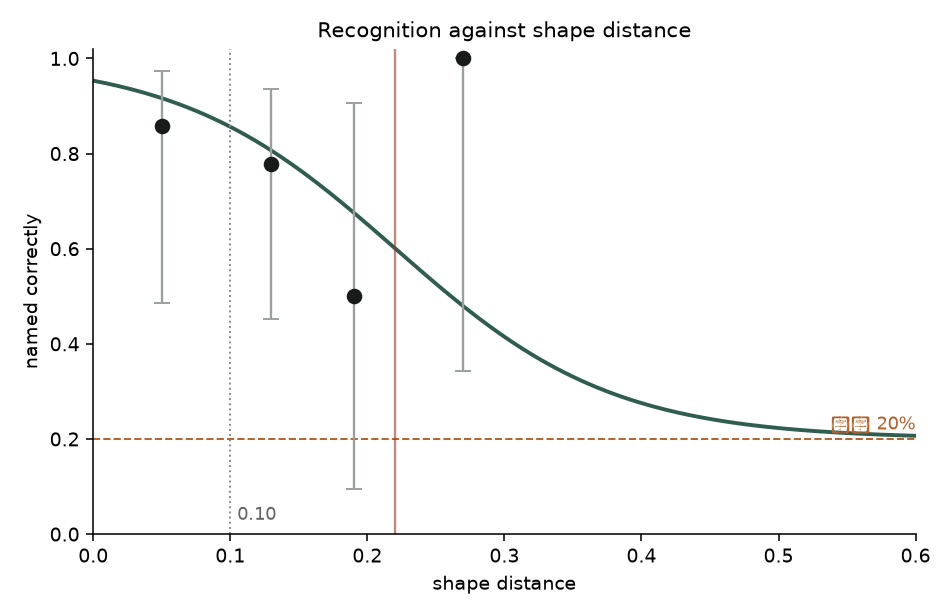
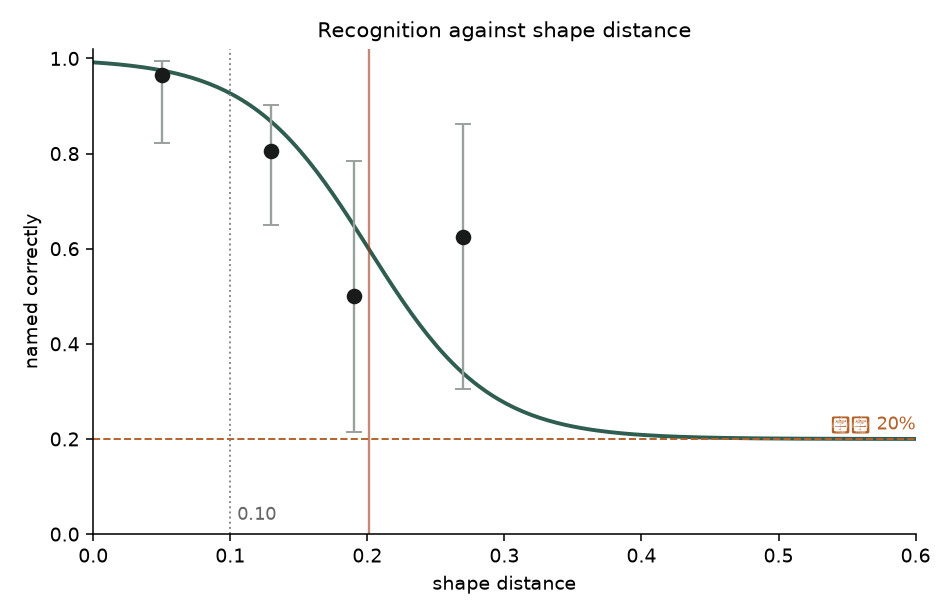
Measure recognition per shape, and withdraw the warning it invalidates
Four raters, 120 judgements, the same 30 routes. The threshold interval
tightens from [0.130, 0.314] on one rater to [0.161, 0.237], and the
pooled halfway point is 0.201. The instrument is stable: all four scored
57-60%, all four gave the same answer on 22 of 30 items, at least three
agreed on 28 of 30.

The threshold is per shape, and that is now settled rather than
suggestive:

    triangle 0.120  crescent 0.166  trex 0.169  heart 0.286  star5 0.321

One threshold for all five fits at log-likelihood -48.1, one per shape at
-33.7: chi2(4) = 28.7, p = 9.1e-06. A factor of 2.7 between the ends. It
is the shape this project keeps finding - a constant applied where the
quantity varies, after detour by size and street scale by city.

Nothing predicts it from geometry, so a new shape has to be measured.
Both candidates failed: distance to the nearest other shape in the
library (r = -0.20, Spearman p = 0.75), refuted outright by the crescent,
which is the most distinctive shape at 0.513 from its nearest neighbour
and has nearly the lowest threshold; and n_min (r = -0.05). Unmeasured
shapes get the pooled figure and the response says which they got.

The service now reports a measured recognition rate instead of a band cut
on raw distance, so the same words mean the same thing for a star and a
triangle. 48 of the 50 errors were "cannot tell" and only two named a
different shape, so the bottom band says the shape is gone rather than
that it is a poor likeness.
[…]

diff --git a/heart_route_poc/server/index.html b/heart_route_poc/server/index.html
@@ -437,35 +437,16 @@
     $("svg").innerHTML = svg;
   }
 
-  function go(force) {
+  function go() {
     $("go").disabled = true;
     $("status").textContent = "計算中…（第一次會等路網載入，之後只要幾秒）";
     $("status").className = "status";
     var body = { target_km: state.km, mode: state.mode,
                  lat: state.place.lat, lon: state.place.lon };
-    if (force) body.force = true;
     if (state.text) body.text = state.text; else body.shape = state.shape;
     api("/api/route", body)
       .then(function (r) {
         $("go").disabled = false;
-        if (r.status === "unlikely") {
-          // Stopped early on purpose, at about half the wait. It is a
-          // prediction, so it offers to be overruled rather than refusing.
-          $("status").innerHTML = "";
-          var msg = document.createElement("span");
-          msg.textContent = r.quality_message;
-          var anyway = document.createElement("button");
-          anyway.type = "button";
-          anyway.className = "ghost";
-          anyway.style.marginLeft = "10px";
-          anyway.textContent = "還是畫畫看";
-          anyway.onclick = function () { go(true); };
-          $("status").appendChild(msg);
-          $("status").appendChild(anyway);
-          $("status").className = "status bad";
-          $("result-card").hidden = true;
-          return;
-        }
         if (r.status !== "ok") {
           $("status").textContent = r.message || ("失敗：" + (r.status || r.error));
           $("status").className = "status bad";
@@ -549,7 +530,7 @@
     renderShapes();
     if (state.text || $("text").value.trim()) checkText();
   });
-  $("go").addEventListener("click", function () { go(false); });
+  $("go").addEventListener("click", go);
   renderPresets();
   loadPlaces();
   loadShapes();

diff --git a/heart_route_poc/server/app.py b/heart_route_poc/server/app.py
@@ -53,6 +53,7 @@ from region_graph import (MIN_COVERAGE, box_around, coverage,        # noqa: E40
                           regions_overlapping, tiles_for)
 from region_download import region_for                            # noqa: E402
 import street_scale as ss                                        # noqa: E402
+import recognition as rc                                         # noqa: E402
 from poc15_wiggle import wander                                  # noqa: E402
 from shape_library import resample_by_arclength                  # noqa: E402
 from shape_metrics import alignment_angle                        # noqa: E402
@@ -241,41 +242,15 @@ def places() -> list[dict]:
     return out
 
 
-# How close the route came to the shape asked for. The first two boundaries are
-# the POC 13/14 discrimination thresholds - where a difference is seen. The
-# third is now measured rather than inherited: POC 29 showed routes alone, with
-# no reference, to be named from all five shapes at once, and recognition sits
-# at chance (2 of 10, against 1 in 5) from 0.32 upward while the 0.22-0.32 band
-# came back 2 of 2. So a route past 0.32 is not "a poor likeness", it is not
-# identifiable, and the wording says so.
-#
-# The old text said the street network "cannot draw this shape" for anything
-# past 0.18. That was an overclaim: the same rater named a heart at 0.207 and a
-# five-pointed star at 0.330.
-#
-# One rater and 30 items. The threshold's bootstrap interval is 0.13 to 0.31 -
-# wide enough that these boundaries are provisional, and they are worded as
-# likelihoods rather than verdicts for that reason.
-# Below this share of placements fitting anywhere in the network, POC 27 found
-# the route comes out unusable. Over sixteen routes spanning three shapes, four
-# sizes and seven cities the five that scored 0.18 or worse had viable rates of
-# 5.2 / 9.7 / 19.3 / 22.0 / 39.1 percent and the other eleven ran 69.6 to 99.7 -
-# nothing in between, so this is the middle of a 30-point gap rather than a
-# tuned number. The same scan cannot GRADE a route (62% three-way, against 44%
-# for guessing "good"), only tell that it will fail.
-VIABLE_RATE_FLOOR = 0.50
-
-QUALITY_BANDS = ((0.10, "good", "跟你選的圖案很接近"),
-                 (0.18, "marginal", "看得出輪廓，但有些地方被街道拉歪了"),
-                 (0.32, "poor", "形狀走樣得滿嚴重，大概一半的人認不出來"),
-                 (9e9, "unrecognisable", "認不出形狀了，換個城市或把距離拉長"))
+# Fidelity is reported as a measured recognition rate, per shape, from POC 29:
+# 120 judgements by four raters naming real routes with no reference shown.
+# See recognition.py - the thresholds are per shape because one threshold fits
+# the same data far worse (chi2(4) = 28.7, p = 9.1e-06) and the 50% points run
+# 0.120 to 0.321 across the five shapes.
 
 
-def quality_for(distance: float) -> tuple[str, str]:
-    for limit, name, message in QUALITY_BANDS:
-        if distance < limit:
-            return name, message
-    return QUALITY_BANDS[-1][1], QUALITY_BANDS[-1][2]
+def quality_for(distance: float, shape: str = "") -> tuple[str, str]:
+    return rc.band(shape, distance)
 
 
 def plan(shape: str, target_km: float, mode: str,
@@ -353,33 +328,17 @@ def build_route(shape: str, target_km: float, mode: str,
     viable = int(np.isfinite(scored["score"]).sum())
     if viable == 0:
         return {"status": "no placement", **verdict}
-    # Stop here when the shape barely fits. The fitting that follows is half the
-    # wait and, at this rate, produces something the rider cannot use - so
-    # saying so now beats saying so in another twenty seconds. `force` exists
-    # because this is a prediction, not a law: the rider can insist.
-    # The probe is taken at ONE rotation, not across the sweep. Two wrong
-    # versions came before this one. Viable rows over centres ran up to twelve,
-    # because coarse_scan returns a row per centre AND rotation, so the check
-    # never fired and Keelung sailed through it. Centres placeable at ANY of
-    # twelve rotations then saturates - a shape that fits at some angle fits
-    # almost everywhere - and stops separating: the poor routes ran 37-94% and
-    # the good ones 92-100%, overlapping.
-    #
-    # At a single fixed rotation it is a measure of how much room the city has
-    # for a shape this size, and that is what POC 27 calibrated. The sweep is
-    # still what the search uses; these rows are already in `scored`, so the
-    # probe costs nothing.
-    probe = scored[scored["rotation"] == rotations[0]]
-    placeable = int(np.isfinite(probe["score"]).sum())
-    rate = placeable / max(1, len(probe))
-    if rate < VIABLE_RATE_FLOOR and not force:
-        return {"status": "unlikely", "viable_rate": round(rate, 3),
-                "placeable": placeable, "centers": len(centers),
-                "quality": "poor",
-                "quality_message": (
-                    f"這個圖案在這裡只有 {rate:.0%} 的位置擺得下，"
-                    f"畫出來大概認不出形狀。換一個城市，或把距離拉長讓圖案變大。"),
-                "seconds": round(time.time() - t0, 1), **verdict}
+    # POC 27 stopped here when fewer than half the placements fitted, on the
+    # basis that such routes came out at 0.18 or worse and 0.18 meant unusable.
+    # POC 29 then MEASURED unusable and it is not 0.18, it is per shape - and
+    # under that criterion this check blocked Taipei's 35 km and 50 km hearts,
+    # which are recognised by essentially everyone, while the three genuinely
+    # unrecognisable routes do not separate from them by viable rate at all
+    # (worst unusable 22.0%, lowest usable 9.7%, gap -12.3%). The signal itself
+    # is real - log viable rate against shape distance is r = -0.85 - but it
+    # cannot carry a gate, and all three unusable cases came from one city, so
+    # there is nothing here to recalibrate on either. Removed rather than
+    # retuned; `force` is still accepted and ignored.
 
     dense_template = resample_by_arclength(shape, 4000)
     fitted = []
@@ -429,8 +388,10 @@ def build_route(shape: str, target_km: float, mode: str,
             # walk over streets approximating the template, not the template,
             # so its own orientation drifts from the request.
             "rotation_deg": round(float(best["rotation"]), 1),
-            "quality": quality_for(float(best["distance"]))[0],
-            "quality_message": quality_for(float(best["distance"]))[1],
+            "quality": quality_for(float(best["distance"]), shape)[0],
+            "quality_message": quality_for(float(best["distance"]), shape)[1],
+            "recognition": round(rc.recognition_rate(shape, float(best["distance"])), 2),
+            "recognition_measured": rc.measured(shape),
             "wander": round(float(best["wander"]), 3),
             "wander_limit": WANDER_LIMIT,
             "candidates_within_limit": sum(f["wander"] <= WANDER_LIMIT

diff --git a/heart_route_poc/recognition.py b/heart_route_poc/recognition.py
@@ -1,0 +1,78 @@
+"""
+How likely a person is to name the shape, given how far the route came out.
+
+POC 29, from 120 judgements by four raters on 30 real fitted routes. The
+instrument is POC 28's: the route alone with no reference, named from all five
+shapes at once plus "none of these", options reshuffled each trial, no feedback
+and no score. Chance is 1/5.
+
+This is NOT the 0.10 discrimination threshold, which is where a person sees
+that two routes differ. It is where they stop being able to say what the route
+is. The two are different numbers and the project has been careful not to
+conflate them; this is the measurement that closes BACKLOG #3.
+
+The threshold is per shape, and that is the whole point. A single threshold
+fits the same 120 judgements at log-likelihood -48.1 against -33.7 for one
+threshold per shape: chi2(4) = 28.7, p = 9.1e-06. The 50% points run from 0.120
+for the triangle to 0.321 for the five-pointed star, a factor of 2.7. Applying
+one number to all of them is the same mistake as one detour ratio for every
+size and one street scale for the whole island.
+
+Nothing predicts a shape's threshold from its geometry, so a new shape has to
+be measured. Two candidates were tested and both failed: the distance to the
+nearest other shape in the library (r = -0.20, Spearman p = 0.75 - and the
+crescent refutes it outright, being by far the most distinctive shape at 0.513
+from its nearest neighbour while having nearly the lowest threshold) and n_min
+(r = -0.05). Until a shape is measured it gets the pooled threshold, which is
+an average and will be wrong for anything as distinctive as a star or as
+generic as a triangle.
+
+Parallel curves - one slope shared, one threshold per shape - rather than five
+free slopes, because 24 judgements per shape will not support five slopes. The
+fitted slope is steep: recognition runs from near-certain to chance across
+about 0.08 of shape distance.
+"""
+
+from __future__ import annotations
+
+import math
+
+CHANCE = 0.20
+SLOPE = 52.1
+# Shape distance at which half the raters still named the shape.
+THRESHOLDS = {
+    "triangle": 0.120,
+    "crescent": 0.166,
+    "trex": 0.169,
+    "heart": 0.286,
+    "star5": 0.321,
+}
+# For anything not measured - text, a new outline, a traced image.
+POOLED = 0.201
+
+
+def threshold(shape: str) -> float:
+    return THRESHOLDS.get(shape, POOLED)
+
+
+def measured(shape: str) -> bool:
+    """Whether this shape's threshold was measured or is the pooled average."""
+    return shape in THRESHOLDS
+
+
+def recognition_rate(shape: str, distance: float) -> float:
+    """Share of people expected to name the shape, floored at chance."""
+    return CHANCE + (1 - CHANCE) / (1 + math.exp(-SLOPE * (threshold(shape) - distance)))
+
+
+# Bands on the measured rate rather than on raw shape distance, so the same
+# words mean the same thing for a star and for a triangle.
+def band(shape: str, distance: float) -> tuple[str, str]:
+    p = recognition_rate(shape, distance)
+    if p >= 0.90:
+        return "good", f"幾乎一定認得出來（約 {p:.0%}）"
+    if p >= 0.60:
+        return "marginal", f"多數人認得出來（約 {p:.0%}）"
+    if p >= 0.35:
+        return "poor", f"大約一半的人認不出來（約 {p:.0%} 認得出）"
+    return "unrecognisable", "認不出形狀了，換個城市或把距離拉長"

diff --git a/heart_route_poc/BACKLOG.md b/heart_route_poc/BACKLOG.md
@@ -358,3 +358,51 @@ against "unusable = 0.18 or worse", where the viable-rate signal separates with
 a 30-point margin. Define unusable as 0.30 instead and the same signal stops
 separating (gap −12.3%), because Taipei's 50 km heart has a 9.7% viable rate at
 a distance of 0.188. Moving the boundary means recalibrating the warning.
+
+
+## 3 (revised). The recognisability ceiling — MEASURED on four raters
+
+120 judgements, 30 real routes, no reference shown, named from all five shapes
+at once. Overall 70/120 = 58% against chance of 20%.
+
+    pooled halfway point 0.201    bootstrap 95% [0.161, 0.237]
+    0.00-0.10  27/28      0.10-0.16  29/36     0.16-0.22  4/8
+    0.22-0.32   5/8       0.32-1.00   5/40  (= chance)
+
+Four raters scored 60/60/57/57% — all four gave the same answer on 22 of 30
+items and at least three agreed on 28 of 30, so the instrument is stable.
+
+48 of the 50 errors were "cannot tell". Only two named a different shape. A
+degraded route does not become another shape, it becomes nothing.
+
+## 15 (revised). The threshold is per shape — SETTLED
+
+    triangle 0.120    crescent 0.166    trex 0.169    heart 0.286    star5 0.321
+
+One threshold for all five fits the same 120 judgements at log-likelihood
+-48.1; one per shape gives -33.7. chi2(4) = 28.7, p = 9.1e-06. A factor of 2.7
+between the ends.
+
+Nothing predicts it from geometry, so a new shape must be measured. Distance to
+the nearest other shape in the library: r = -0.20, Spearman p = 0.75, and the
+crescent refutes it outright — the most distinctive shape in the library at
+0.513 from its nearest neighbour, with nearly the lowest threshold. n_min:
+r = -0.05. Unmeasured shapes get the pooled 0.201 and the service says so.
+
+## 17. The POC 27 early warning is withdrawn
+
+It stopped a request when fewer than half the placements fitted, calibrated
+against "unusable = shape distance 0.18 or worse". POC 29 measured unusable and
+it is not 0.18 and not one number. Under the measured criterion the check
+blocked Taipei's 35 km and 50 km hearts — recognised by essentially everyone —
+and the three genuinely unrecognisable routes do not separate from the usable
+ones by viable rate at all: worst unusable 22.0%, lowest usable 9.7%, gap
+-12.3%.
+
+The underlying signal is real (log viable rate against shape distance,
+r = -0.85) but it cannot carry a gate, and all three unusable cases came from
+one city, so there is nothing to recalibrate on. Removed rather than retuned.
+
+This leaves the original problem open again: a rider still waits for the fit
+before learning the result is poor. What would settle it is unusable routes
+from more than one city — every one in hand is Keelung.
